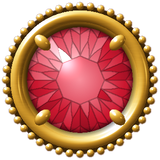
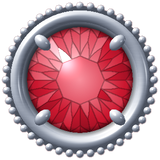
Stat jewels part of the card: set in lobes of its own face and rim, in silver
Each jewel sits on the card's top edge in a mount of the card's face, its rim
carried round the part above, so the card's outline rises round both (and
takes each card's own face and rim: stellar, anomaly, Hero, playable green).
The settings re-rendered in the card's polished silver. The type word moves
left of centre, clear of them.

Claude-Session: https://claude.ai/code/session_01PBSGSnCP4crXPaN2fSSd8D

diff --git a/src/styles.css b/src/styles.css
@@ -5901,18 +5901,25 @@ body:has(.game-result) .dock { visibility: hidden; }
 .stat-hp { display: inline-flex; align-items: center; gap: 0.15em; }
 .kw-health { color: #2f8a57; }
 
-/* ---- Health and stability as jewels: two gold-set stones standing proud of the card's top-right corner ---- */
+/* ---- Health and stability as jewels, set into the card's top edge at its right corner ----
+   Each sits in a mount of the card's own face and rim (as the rarity gem once did), so the card's edge rises
+   round both: two lobes of the card itself, the silver of their settings the card's own metal. */
 .card-jewels {
   position: absolute; z-index: 6; pointer-events: auto;
-  top: calc(var(--cw, 100px) * -0.09); right: calc(var(--cw, 100px) * -0.07);
-  display: flex; flex-direction: row-reverse; align-items: flex-start; gap: calc(var(--cw, 100px) * 0.005);
-  filter: drop-shadow(0 calc(var(--cw, 100px) * 0.012) calc(var(--cw, 100px) * 0.014) rgba(30, 22, 8, 0.45));
+  top: 0; right: calc(var(--cw, 100px) * 0.035); transform: translateY(-46%);
+  display: flex; flex-direction: row-reverse; align-items: center; gap: calc(var(--cw, 100px) * 0.05);
 }
 .jewel {
   position: relative; display: grid; place-items: center;
-  width: max(18px, calc(var(--cw, 100px) * 0.22)); aspect-ratio: 1;
+  width: max(16px, calc(var(--cw, 100px) * 0.19)); aspect-ratio: 1;
   background: var(--jewel-emerald) center / contain no-repeat;
 }
+/* The mount: the card's face, covering its edge where the jewel sits... */
+.jewel::before, .jewel::after { content: ''; position: absolute; inset: -16%; border-radius: 50%; z-index: -1; }
+.jewel::before { background: var(--face, #fbfbfc); }
+/* ...and the card's rim carried round the part that stands above it. */
+.jewel::after { border: 1px solid var(--rim, #fff); clip-path: inset(-3px -3px 54% -3px); box-shadow: 0 -1px 3px rgba(80, 84, 100, 0.14); }
+.card.kind-command .jewel::after { box-shadow: 0 -1px 3px rgba(20, 24, 34, 0.3); }
 .jewel-stab { background-image: var(--jewel-topaz); }
 .jewel.jewel-low { background-image: var(--jewel-ruby); }
 .jewel i {
@@ -5925,3 +5932,5 @@ body:has(.game-result) .dock { visibility: hidden; }
 /* (In a preview, the number now and after side by side, smaller.) */
 .jewel .pv-now, .jewel .pv-after { font-size: 0.78em; }
 .jewel .pv-after { color: #ffd6cc; }
+/* (The type word moves left of centre, clear of the jewels.) */
+.card:has(> .card-jewels) .card-type { left: 30%; }

diff --git a/scripts/render_jewels.py b/scripts/render_jewels.py
@@ -1,10 +1,10 @@
 #!/usr/bin/env python3
 # Usage: pip install numpy scipy pillow && python3 scripts/render_jewels.py
-"""Render the stat jewels (src/ui/jewels/): a round brilliant-cut stone in a gold setting.
+"""Render the stat jewels (src/ui/jewels/): a round brilliant-cut stone in a silver setting.
 
 Health is an emerald, stability a topaz, and a value about to run out a ruby. Each is
 seen from above: the stone's table, star, kite and upper-girdle facets, each lit from
-the top left with its own sparkle and fine dark seams; set in a polished gold bezel
+the top left with its own sparkle and fine dark seams; set in a polished silver bezel (the card's own metal)
 with a stepped inner lip, a row of milgrain beads round its rim, and four claws
 gripping the stone. The number sits over the table, in HTML.
 """
@@ -63,7 +63,8 @@ def ramp(stops, t):
 
 
 hex2 = lambda h: np.array([int(h[i:i + 2], 16) for i in (1, 3, 5)]) / 255
-GOLD = [(0, hex2('#4a2e08')), (0.18, hex2('#8a5c14')), (0.4, hex2('#d29a2c')), (0.62, hex2('#f2c95a')), (0.82, hex2('#fff1b0')), (1, hex2('#ffffff'))]
+# Polished silver, as the card's own rim and the rarity gems' sockets.
+GOLD = [(0, hex2('#3a404c')), (0.2, hex2('#6c7484')), (0.42, hex2('#a3abba')), (0.64, hex2('#d6dbe4')), (0.84, hex2('#f4f6fa')), (1, hex2('#ffffff'))]
 
 
 def gold(nx, ny, nz, grain=0.0):
@@ -120,7 +121,7 @@ def stone(deep, mid, light):
 
 
 def setting():
-    """The gold bezel: inner lip, polished band, milgrain, and four claws."""
+    """The silver bezel: inner lip, polished band, milgrain, and four claws."""
     col = np.zeros((N, N, 3))
     alpha = np.zeros((N, N))
     grain = (gaussian_filter(np.random.default_rng(3).random((N, N)), [0.6, 6]) - 0.5) * 0.12   # (a brushed finish)
@@ -152,7 +153,7 @@ def setting():
     alpha[beads] = 1
     # (The base under the beads, dark between them.)
     base = (r >= BEAD0 - 0.01) & (r < bead_r) & ~beads
-    col[base] = hex2('#3a2408') * 1.0
+    col[base] = hex2('#4a505c') * 1.0
     alpha[base] = 1
     # Four claws over the stone's edge, on the diagonals.
     for ang in np.deg2rad([45, 135, 225, 315]):
